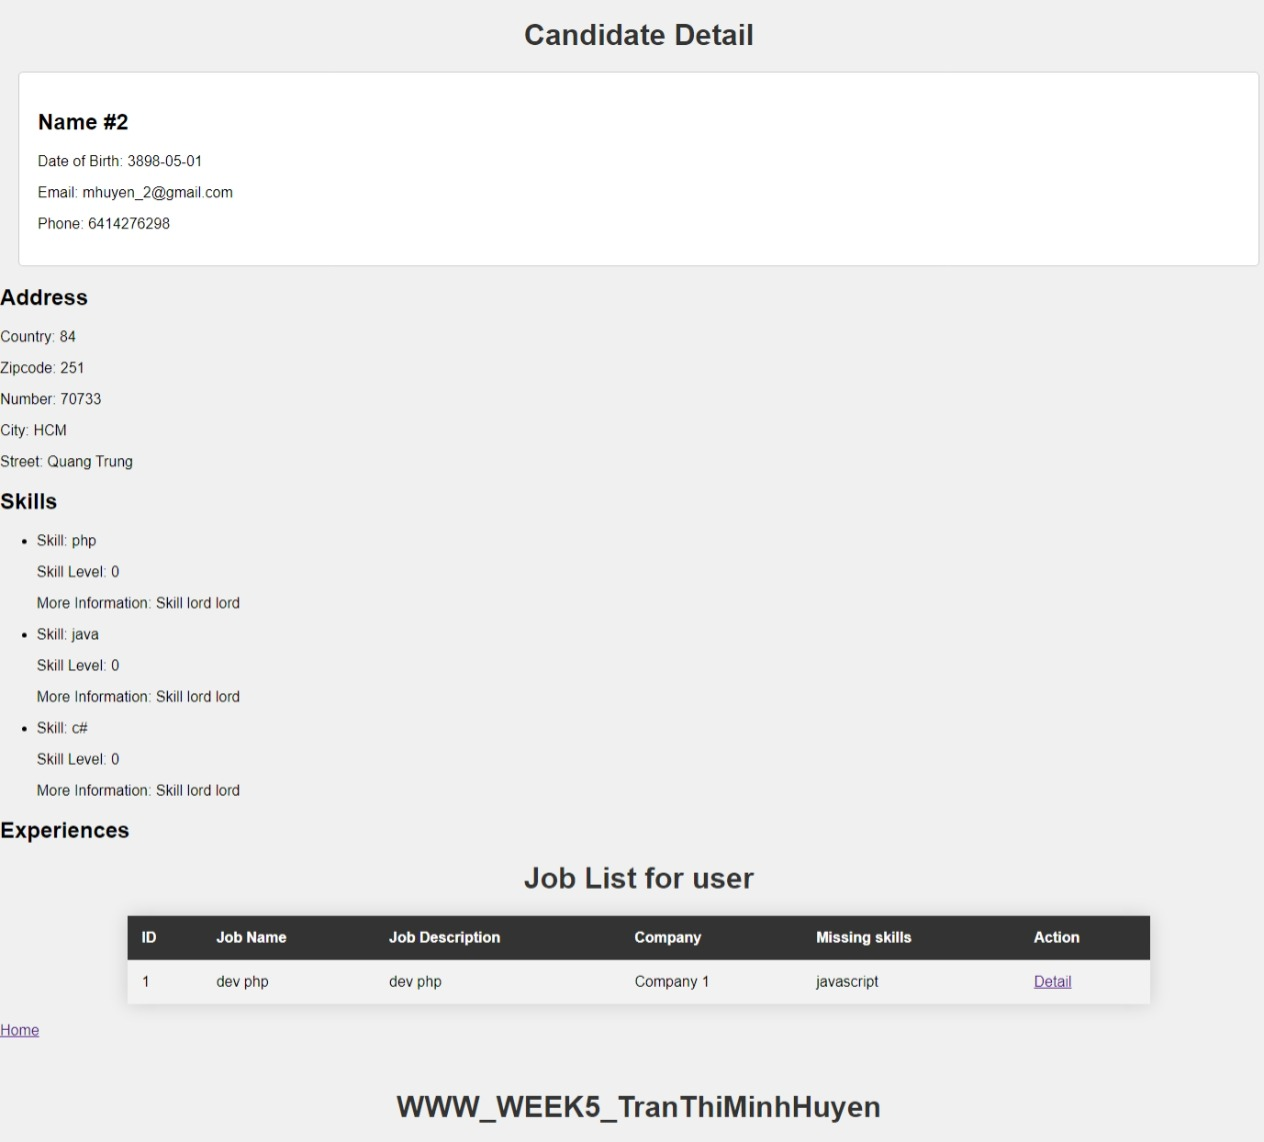
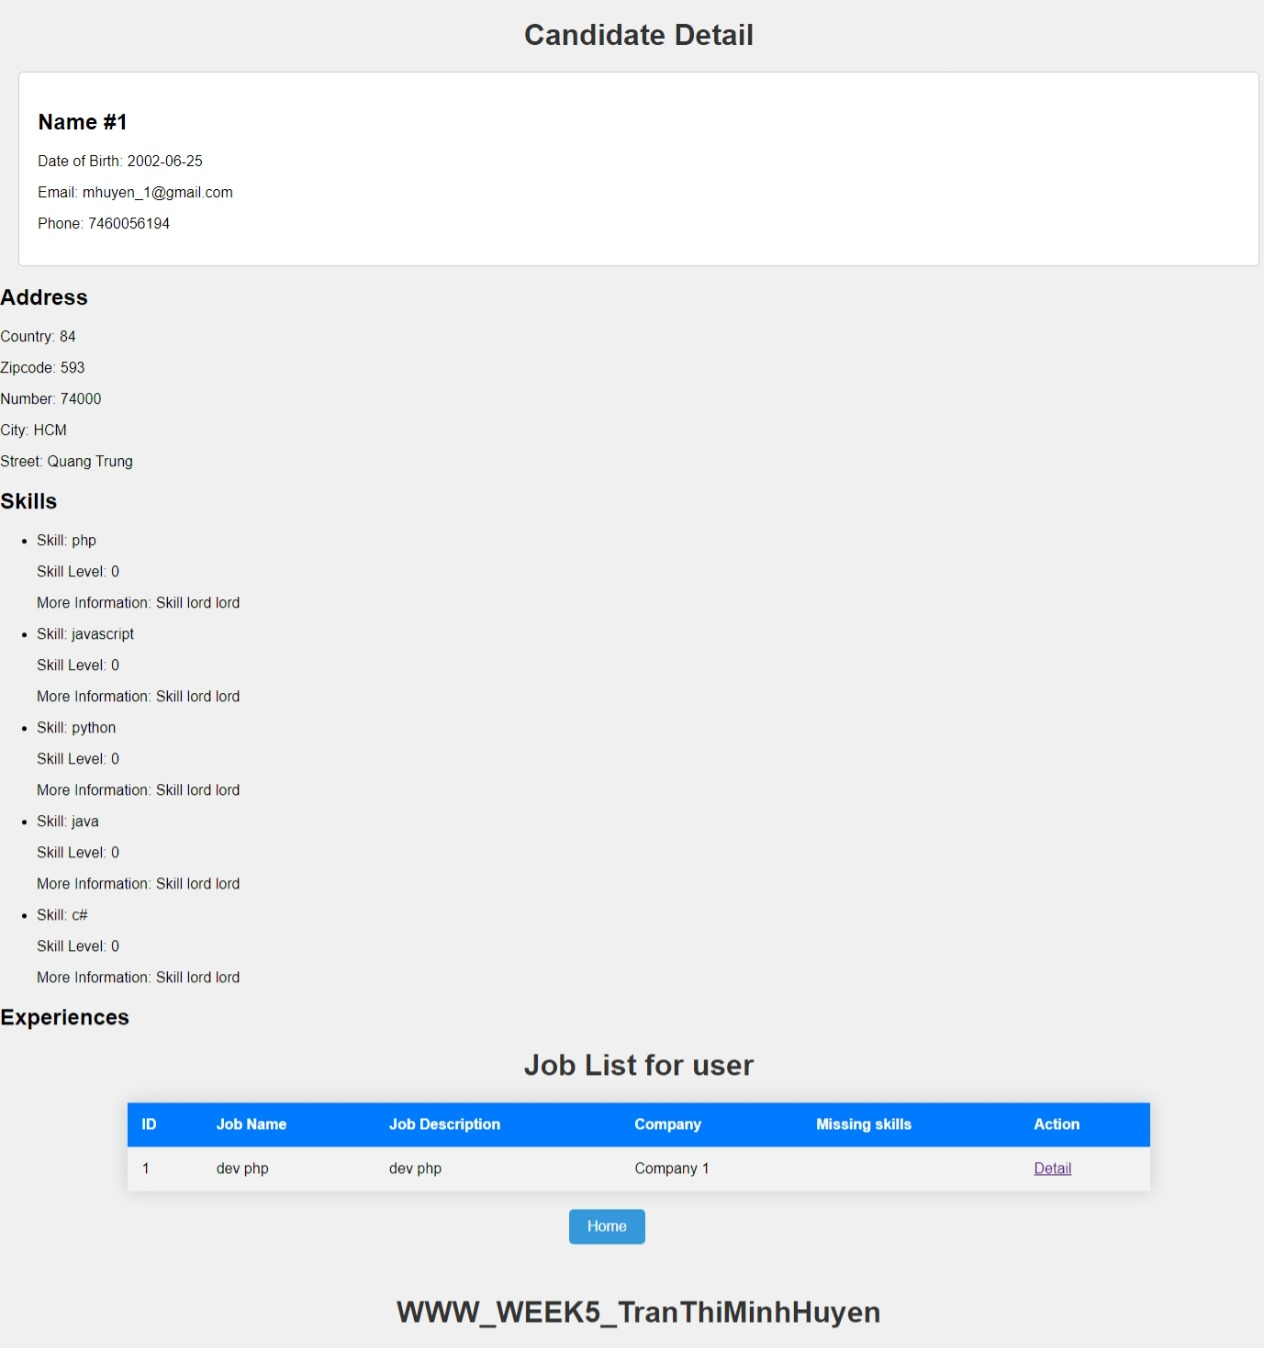
Update

diff --git a/src/main/resources/templates/job/list.html b/src/main/resources/templates/job/list.html
@@ -10,7 +10,7 @@
             background-color: #f2f2f2;
         }
         h1 {
-            background-color: #333;
+            background-color: #007bff;
             color: #fff;
             padding: 10px;
             text-align: center;
@@ -27,7 +27,7 @@
             text-align: left;
         }
         thead {
-            background-color: #333;
+            background-color: #007bff;
             color: #fff;
         }
         tbody tr:nth-child(odd) {
@@ -47,17 +47,31 @@
         }
         .pagination a {
             text-decoration: none;
-            background-color: #333;
+            background-color: #007bff;
             color: #fff;
             padding: 5px 10px;
             border-radius: 5px;
         }
         .pagination a.active {
             background-color: #f2f2f2;
-            color: #333;
+            color: #007bff;
         }
         a {
             text-decoration: none;
+        }
+        .achor {
+            display: inline-block;
+            padding: 10px 20px;
+            text-decoration: none;
+            background-color: #3498db;
+            color: #fff;
+            border-radius: 5px;
+            transition: background-color 0.3s ease;
+        }
+
+        /* Hover effect */
+        .achor:hover {
+            background-color: #2980b9;
         }
     </style>
 </head>
@@ -95,9 +109,9 @@
             </ul>
         </div>
     </div>
-    <a href="/create-job">Create</a>
+    <a class="achor" style="margin-left: 620px;" href="/create-job">Create</a>
     
-    <a href="/">Home</a>
+    <a class="achor" href="/">Home</a>
 </br>
 </br>
 </br>

diff --git a/src/main/resources/templates/job/detail.html b/src/main/resources/templates/job/detail.html
@@ -10,7 +10,7 @@
             background-color: #f2f2f2;
         }
         h1 {
-            background-color: #333;
+            background-color: #007bff;
             color: #fff;
             padding: 10px;
             text-align: center;
@@ -104,17 +104,31 @@
         }
         .pagination a {
             text-decoration: none;
-            background-color: #333;
+            background-color: #007bff;
             color: #fff;
             padding: 5px 10px;
             border-radius: 5px;
         }
         .pagination a.active {
             background-color: #f2f2f2;
-            color: #333;
+            color: #007bff;
         }
         a {
             text-decoration: none;
+        }
+        .achor {
+            display: inline-block;
+            padding: 10px 20px;
+            text-decoration: none;
+            background-color: #3498db;
+            color: #fff;
+            border-radius: 5px;
+            transition: background-color 0.3s ease;
+        }
+
+        /* Hover effect */
+        .achor:hover {
+            background-color: #2980b9;
         }
     </style>
 </head>
@@ -190,7 +204,7 @@
             </ul>
         </div>
     </div>
-    <a href="/">Home</a>
+    <a class="achor" style="margin-left: 620px;" href="/">Home</a>
 </br>
 </br>
 </br>

diff --git a/src/main/resources/templates/candidate/list.html b/src/main/resources/templates/candidate/list.html
@@ -54,14 +54,14 @@
         }
         .pagination a {
             text-decoration: none;
-            background-color: #333;
+            background-color: #007bff;
             color: #fff;
             padding: 5px 10px;
             border-radius: 5px;
         }
         .pagination a.active {
             background-color: #f2f2f2;
-            color: #333;
+            color: #007bff;
         }
         a {
             text-decoration: none;
@@ -103,6 +103,20 @@
 
         button[type="submit"]:hover {
             background-color: #0056b3;
+        }
+        .achor {
+            display: inline-block;
+            padding: 10px 20px;
+            text-decoration: none;
+            background-color: #3498db;
+            color: #fff;
+            border-radius: 5px;
+            transition: background-color 0.3s ease;
+        }
+
+        /* Hover effect */
+        .achor:hover {
+            background-color: #2980b9;
         }
     </style>
 </head>
@@ -159,7 +173,8 @@
             </ul>
         </div>
     </div>
-    <a href="/">Home</a>
+   
+    <a class="achor" style="margin-left: 620px;" href="/">Home</a>
 </br>
 </br>
 </br>

diff --git a/src/main/resources/templates/candidate/detail.html b/src/main/resources/templates/candidate/detail.html
@@ -47,11 +47,25 @@
             text-align: left;
         }
         thead {
-            background-color: #333;
+            background-color: #007bff;
             color: #fff;
         }
         tbody tr:nth-child(odd) {
             background-color: #f2f2f2;
+        }
+        .achor {
+            display: inline-block;
+            padding: 10px 20px;
+            text-decoration: none;
+            background-color: #3498db;
+            color: #fff;
+            border-radius: 5px;
+            transition: background-color 0.3s ease;
+        }
+
+        /* Hover effect */
+        .achor:hover {
+            background-color: #2980b9;
         }
     </style>
 </head>
@@ -124,7 +138,7 @@
             </tr>
         </tbody>
     </table>
-    <a href="/">Home</a>
+    <a class="achor" style="margin-left: 620px;" href="/">Home</a>
 </br>
 </br>
 </br>

diff --git a/src/main/resources/templates/job/create.html b/src/main/resources/templates/job/create.html
@@ -58,6 +58,20 @@
         .btn-primary:hover {
             background-color: #0056b3;
         }
+        .achor {
+            display: inline-block;
+            padding: 10px 20px;
+            text-decoration: none;
+            background-color: #3498db;
+            color: #fff;
+            border-radius: 5px;
+            transition: background-color 0.3s ease;
+        }
+
+        /* Hover effect */
+        .achor:hover {
+            background-color: #2980b9;
+        }
     </style>
 </head>
 <body>
@@ -98,7 +112,7 @@
             <input type="submit" value="Create Job" class="btn btn-primary" />
         </form>
     </div>
-    <a href="/">Home</a>
+    <a class="achor" style="margin-left: 620px;" href="/">Home</a>
 </br>
 </br>
 </br>

diff --git a/src/main/java/iuh/edu/vn/www_week04_spring/WwwWeek04SpringApplication.java b/src/main/java/iuh/edu/vn/www_week04_spring/WwwWeek04SpringApplication.java
@@ -74,7 +74,7 @@ public class WwwWeek04SpringApplication {
             addressRepository.save(add); 
  
             Candidate can=new Candidate("Name #"+i, 
-                   new Date(1998,rnd.nextInt(1,13),rnd.nextInt(1,29)), 
+                   new Date(102,rnd.nextInt(1,13),rnd.nextInt(1,29)), 
                    add, 
                    rnd.nextLong(1111111111L,9999999999L)+"", 
                    "mhuyen_"+i+"@gmail.com"); 

diff --git a/readme.md b/readme.md
@@ -26,4 +26,5 @@ Candidates will be recommended some skills that they do not have for learning.
     ![joblist.png](/public/huyenlab5_6.jpeg)
 4. View the list of candidates, candidates can view their own information and see the companies that match their profile as well as their skills in relation to various job positions.
     ![candidatefillter.png](/public/huyenlab5_7.png)
+    ![candidatefillter1.png](/public/huyenlab5_8.jpeg)
     ![candidatedetail.png](/public/huyenlab5_9.jpeg)
